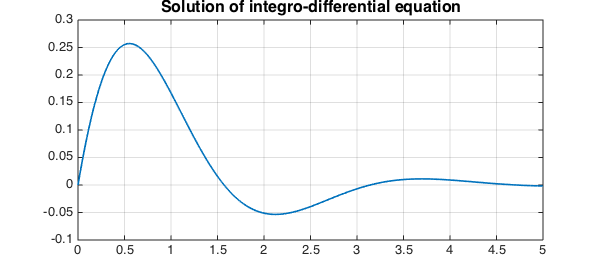
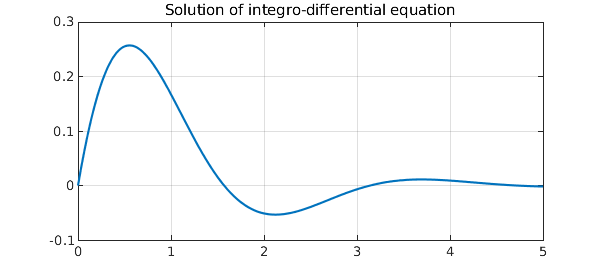
fixing typo in WikiIntegroDiff

Changed region(s): [[0.06, 0.0, 0.93, 0.9481], [0.54, 0.6815, 0.63, 0.7407], [0.36, 0.6519, 0.39, 0.7407]]

diff --git a/examples/integro/index.html b/examples/integro/index.html
@@ -60,8 +60,8 @@
     <div class="container">
 <div class="row main noleftpadding"><div class="col-sm-4 noleftpadding">
     <ul class='sidenav'>
-        <li><a href="/examples/applics/index.html">Applications<span>6</span></a></li>
-        <li><a href="/examples/approx/index.html">Approximation (1D)<span>45</span></a></li>
+        <li><a href="/examples/applics/index.html">Applications<span>8</span></a></li>
+        <li><a href="/examples/approx/index.html">Approximation (1D)<span>46</span></a></li>
         <li><a href="/examples/approx2/index.html">Approximation (2D)<span>16</span></a></li>
         <li><a href="/examples/approx3/index.html">Approximation (3D)<span>10</span></a></li>
         <li><a href="/examples/calc/index.html">Calculus<span>6</span></a></li>
@@ -70,17 +70,17 @@
         <li><a href="/examples/disk/index.html">Disk<span>2</span></a></li>
         <li><a href="/examples/fourier/index.html">Fourier analysis<span>5</span></a></li>
         <li><a href="/examples/fun/index.html">Fun stuff<span>7</span></a></li>
-        <li><a href="/examples/geom/index.html">Geometry<span>10</span></a></li>
+        <li><a href="/examples/geom/index.html">Geometry<span>11</span></a></li>
         <li class='active'><a href="/examples/integro/index.html">Integral equations<span>4</span></a></li>
-        <li><a href="/examples/linalg/index.html">Linear algebra<span>15</span></a></li>
+        <li><a href="/examples/linalg/index.html">Linear algebra<span>18</span></a></li>
         <li><a href="/examples/ode-eig/index.html">ODE eigenvalue problems<span>16</span></a></li>
         <li><a href="/examples/ode-linear/index.html">ODEs (linear)<span>25</span></a></li>
-        <li><a href="/examples/ode-nonlin/index.html">ODEs (nonlinear)<span>24</span></a></li>
+        <li><a href="/examples/ode-nonlin/index.html">ODEs (nonlinear)<span>26</span></a></li>
         <li><a href="/examples/opt/index.html">Optimization<span>11</span></a></li>
         <li><a href="/examples/pde/index.html">Partial differential equations<span>10</span></a></li>
         <li><a href="/examples/quad/index.html">Quadrature<span>8</span></a></li>
         <li><a href="/examples/ode-random/index.html">Random ODEs<span>10</span></a></li>
-        <li><a href="/examples/roots/index.html">Rootfinding<span>17</span></a></li>
+        <li><a href="/examples/roots/index.html">Rootfinding<span>18</span></a></li>
         <li><a href="/examples/sphere/index.html">Sphere and ball<span>13</span></a></li>
         <li><a href="/examples/stats/index.html">Statistics and probability<span>16</span></a></li>
         <li><a href="/examples/veccalc/index.html">Vector calculus<span>2</span></a></li>
@@ -131,7 +131,7 @@
     </div>
 </div>
     <div class="footer">
-        <p>&copy; Copyright 2019 the University of Oxford and the Chebfun Developers.</p>
+        <p>&copy; Copyright 2022 the University of Oxford and the Chebfun Developers.</p>
     </div>
 
     <!-- jQuery (necessary for Bootstrap's JavaScript plugins) -->

diff --git a/examples/integro/WikiIntegroDiff.html b/examples/integro/WikiIntegroDiff.html
@@ -62,7 +62,7 @@
 <div class="row main">
 <div id='content' class="col-sm-12 example" role="main">
 <p>Here, we solve a first order linear integro-differential equation considered in the Wikipedia article [1]:</p>
-<p>$$ u'(x) + 2u(x) + 5\int_0^t u(t) dt = 1~ (x\ge 0), ~~
+<p>$$ u'(x) + 2u(x) + 5\int_0^x u(t) dt = 1~ (x\ge 0), ~~
 = 0~ (x&lt;0) $$</p>
 <p>with $u(0)=0$.</p>
 <p>Begin by defining the domain $d$, chebfun variable $x$ and operator $N$.</p>
@@ -83,18 +83,18 @@ N = chebop(d);</pre>
 <pre class="mcode-input">u = N\rhs;</pre>
 
 <p>Here is the analytic solution:</p>
-<pre class="mcode-input">u_exact = 0.5*exp(-x).*sin(2*x);</pre>
+<pre class="mcode-input">u_exact = 0.5*exp(-x)*sin(2*x);</pre>
 
 <p>How close is the computed solution to the true solution?</p>
 <pre class="mcode-input">accuracy = norm(u-u_exact)</pre>
 
 <pre class="mcode-output">accuracy =
-     8.491258814888107e-16
+     2.655275752894818e-16
 </pre>
 
 <p>Plot the computed solution</p>
-<pre class="mcode-input">plot(u,'linewidth',1.6), grid on
-title('Solution of integro-differential equation','fontsize',16)</pre>
+<pre class="mcode-input">plot(u), grid on
+title('Solution of integro-differential equation')</pre>
 
 <p><img src="img/WikiIntegroDiff_01.png" class="figure" alt=""></p>
 <h3 id="references">References</h3>
@@ -105,7 +105,7 @@ title('Solution of integro-differential equation','fontsize',16)</pre>
     </div>
 </div>
     <div class="footer">
-        <p>&copy; Copyright 2019 the University of Oxford and the Chebfun Developers.</p>
+        <p>&copy; Copyright 2022 the University of Oxford and the Chebfun Developers.</p>
     </div>
 
     <!-- jQuery (necessary for Bootstrap's JavaScript plugins) -->

diff --git a/examples/integro/img/WikiIntegroDiff.html b/examples/integro/img/WikiIntegroDiff.html
@@ -7,7 +7,7 @@ meta: "(Chebfun example integro/WikiIntegroDiff.m) [Tags: #linear, #backslash, #
 
 Here, we solve a first order linear integro-differential equation considered in the Wikipedia article [1]:
 
-$$ u'(x) + 2u(x) + 5\int_0^t u(t) dt = 1~ (x\ge 0), ~~
+$$ u'(x) + 2u(x) + 5\int_0^x u(t) dt = 1~ (x\ge 0), ~~
 = 0~ (x&lt;0) $$
 
 with $u(0)=0$.
@@ -26,14 +26,14 @@ N = chebop(d);</pre>The problem has a single Dirichlet boundary condition at $x=
 
 <pre class="mcode-input">u = N\rhs;</pre>Here is the analytic solution:
 
-<pre class="mcode-input">u_exact = 0.5*exp(-x).*sin(2*x);</pre>How close is the computed solution to the true solution?
+<pre class="mcode-input">u_exact = 0.5*exp(-x)*sin(2*x);</pre>How close is the computed solution to the true solution?
 
 <pre class="mcode-input">accuracy = norm(u-u_exact)</pre><pre class="mcode-output">accuracy =
-     8.491258814888107e-16
+     2.655275752894818e-16
 </pre>Plot the computed solution
 
-<pre class="mcode-input">plot(u,'linewidth',1.6), grid on
-title('Solution of integro-differential equation','fontsize',16)</pre><img src="img/WikiIntegroDiff_01.png" class="figure" alt="">
+<pre class="mcode-input">plot(u), grid on
+title('Solution of integro-differential equation')</pre><img src="img/WikiIntegroDiff_01.png" class="figure" alt="">
 
 
 

diff --git a/examples/integro/FracCalc2.html b/examples/integro/FracCalc2.html
@@ -187,7 +187,7 @@ title('diff(diff(f, a), 1-a) = diff(f)', 'Interpreter', 'latex')</pre>
     </div>
 </div>
     <div class="footer">
-        <p>&copy; Copyright 2019 the University of Oxford and the Chebfun Developers.</p>
+        <p>&copy; Copyright 2022 the University of Oxford and the Chebfun Developers.</p>
     </div>
 
     <!-- jQuery (necessary for Bootstrap's JavaScript plugins) -->

diff --git a/examples/integro/FracCalc.html b/examples/integro/FracCalc.html
@@ -159,7 +159,7 @@ legend(num2str((0:.1:1)'),'location','northwest')</pre>
     </div>
 </div>
     <div class="footer">
-        <p>&copy; Copyright 2019 the University of Oxford and the Chebfun Developers.</p>
+        <p>&copy; Copyright 2022 the University of Oxford and the Chebfun Developers.</p>
     </div>
 
     <!-- jQuery (necessary for Bootstrap's JavaScript plugins) -->

diff --git a/examples/integro/FoxLi.html b/examples/integro/FoxLi.html
@@ -104,7 +104,7 @@ axis equal, axis(1.05*[-1 1 -1 1]), hold off</pre>
     </div>
 </div>
     <div class="footer">
-        <p>&copy; Copyright 2019 the University of Oxford and the Chebfun Developers.</p>
+        <p>&copy; Copyright 2022 the University of Oxford and the Chebfun Developers.</p>
     </div>
 
     <!-- jQuery (necessary for Bootstrap's JavaScript plugins) -->

diff --git a/index.html b/index.html
@@ -269,5 +269,5 @@ plot(minx(1),minx(2),'.w')
     <script type="text/javascript" src="/js/config.js"></script>
     <script type="text/javascript" src="/js/jquery.flexslider-min.js"></script>
   </body>
-<!-- Compiled on Sunday, 02 October 2022 at 16:57. -->
+<!-- Compiled on Thursday, 20 October 2022 at 10:27. -->
 </html>

diff --git a/examples/integro/WikiIntegroDiff.m b/examples/integro/WikiIntegroDiff.m
@@ -9,7 +9,7 @@
 % Here, we solve a first order linear integro-differential equation
 % considered in the Wikipedia article [1]:
 %
-% $$ u'(x) + 2u(x) + 5\int_0^t u(t) dt = 1~ (x\ge 0), ~~
+% $$ u'(x) + 2u(x) + 5\int_0^x u(t) dt = 1~ (x\ge 0), ~~
 % = 0~ (x<0) $$
 %
 % with $u(0)=0$.
@@ -38,7 +38,7 @@ u = N\rhs;
 
 %%
 % Here is the analytic solution:
-u_exact = 0.5*exp(-x).*sin(2*x);
+u_exact = 0.5*exp(-x)*sin(2*x);
 
 %%
 % How close is the computed solution to the true solution?
@@ -46,8 +46,8 @@ accuracy = norm(u-u_exact)
 
 %%
 % Plot the computed solution
-plot(u,'linewidth',1.6), grid on
-title('Solution of integro-differential equation','fontsize',16)
+plot(u), grid on
+title('Solution of integro-differential equation')
 
 %% References
 %
